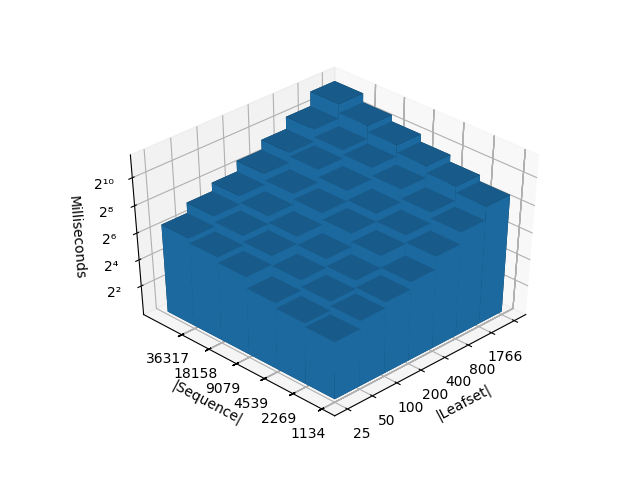
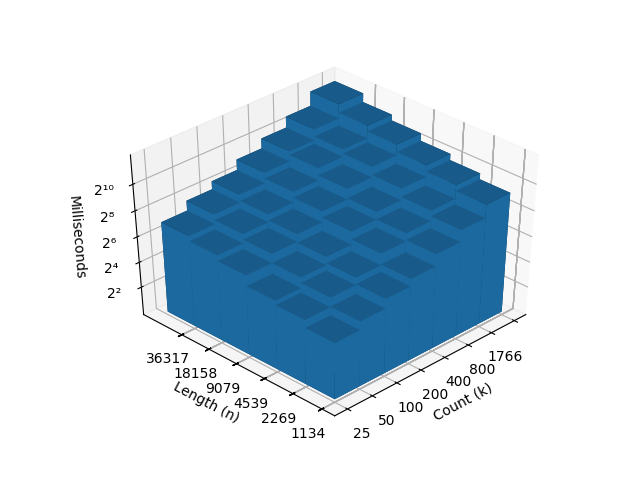
Updating results, after calibrating observation count

diff --git a/tex/Efficient-Implied-Alignment.tex b/tex/Efficient-Implied-Alignment.tex
@@ -661,27 +661,27 @@ $\sigma_2$ & A & C & G & T & -- \\ \hline
 % Date and time: Fri, Oct 11, 2019 - 11:29:04 AM
 % Requires LaTeX packages: dcolumn 
 \begin{table}[!htbp] \centering 
-	\caption{Regression coefficients of string count and string length on runtime} 
-	\label{Tab:Regression} 
-	\begin{tabular}{@{\extracolsep{5pt}}lD{.}{.}{-3} D{.}{.}{-3} D{.}{.}{-3} D{.}{.}{-3} } 
-		\\[-1.8ex]\hline 
-		\hline \\[-1.8ex]
-		& \multicolumn{4}{c}{\textit{Dependent variable:}} \\ 
-		\cline{2-5} 
-		\\[-1.8ex] & \multicolumn{4}{c}{$\log_2$(Runtime)} \\ 
-		& \multicolumn{1}{c}{Best} & \multicolumn{1}{c}{Worst} & \multicolumn{1}{c}{Fungi} & \multicolumn{1}{c}{Metazoa} \\ 
-		\\[-1.8ex] & \multicolumn{1}{c}{(1)} & \multicolumn{1}{c}{(2)} & \multicolumn{1}{c}{(3)} & \multicolumn{1}{c}{(4)}\\ 
-		\hline \\[-1.8ex] 
-		$\log_2$(String count $\;n$) & 1.000 & 1.854 & 1.193 & 1.499 \\ 
-		& & & & \\ 
-		$\log_2$(String length $k$) & 0.920 & 0.888 & 0.753 & 1.067 \\ 
-		& & & & \\ 
-		\hline \\[-1.8ex]
-		Observations & \multicolumn{1}{c}{25} & \multicolumn{1}{c}{25} & \multicolumn{1}{c}{42} & \multicolumn{1}{c}{42} \\ 
-		Adjusted R$^{2}$ & \multicolumn{1}{c}{0.943} & \multicolumn{1}{c}{0.971} & \multicolumn{1}{c}{0.984} & \multicolumn{1}{c}{0.991} \\ 
-		\hline 
-		\hline \\[-1.8ex] 
-	\end{tabular}
+  \caption{Regression coefficients of leaf-set size and string length on runtime} 
+  \label{} 
+\begin{tabular}{@{\extracolsep{5pt}}lD{.}{.}{-3} D{.}{.}{-3} D{.}{.}{-3} D{.}{.}{-3} } 
+\\[-1.8ex]\hline 
+\hline \\[-1.8ex] 
+ & \multicolumn{4}{c}{\textit{Dependent variable:}} \\ 
+\cline{2-5} 
+\\[-1.8ex] & \multicolumn{4}{c}{$\log_2$ (Runtime)} \\ 
+ & \multicolumn{1}{c}{Best} & \multicolumn{1}{c}{Worst} & \multicolumn{1}{c}{Fungi} & \multicolumn{1}{c}{Metazoa} \\ 
+\\[-1.8ex] & \multicolumn{1}{c}{(1)} & \multicolumn{1}{c}{(2)} & \multicolumn{1}{c}{(3)} & \multicolumn{1}{c}{(4)}\\ 
+\hline \\[-1.8ex] 
+ $\log_2$ (String count $\;n$) & 0.927 & 1.804 & 1.192 & 1.529 \\ 
+  & & & & \\ 
+ $\log_2$ (String length $k$) & 0.855 & 0.866 & 0.776 & 1.058 \\ 
+  & & & & \\ 
+\hline \\[-1.8ex] 
+Observations & \multicolumn{1}{c}{25} & \multicolumn{1}{c}{25} & \multicolumn{1}{c}{42} & \multicolumn{1}{c}{42} \\ 
+Adjusted R$^{2}$ & \multicolumn{1}{c}{0.956} & \multicolumn{1}{c}{0.964} & \multicolumn{1}{c}{0.986} & \multicolumn{1}{c}{0.996} \\ 
+\hline 
+\hline \\[-1.8ex] 
+\end{tabular} 
 \end{table}
 
 \newcolumntype{R}[1]{>{\raggedleft\arraybackslash}p{#1}}
